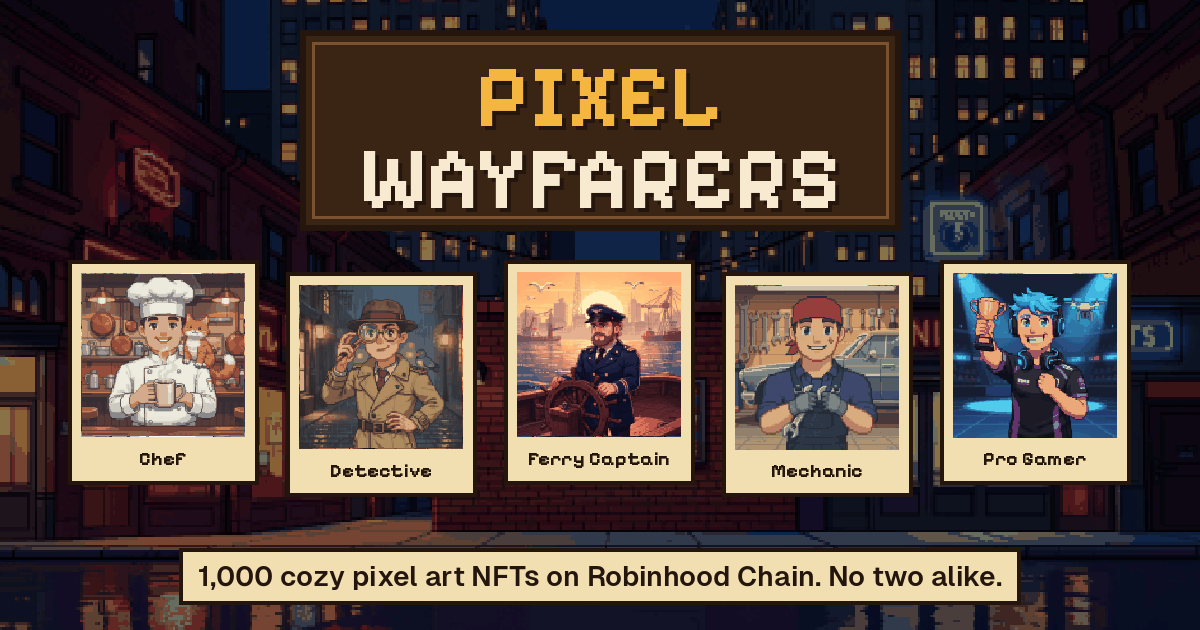
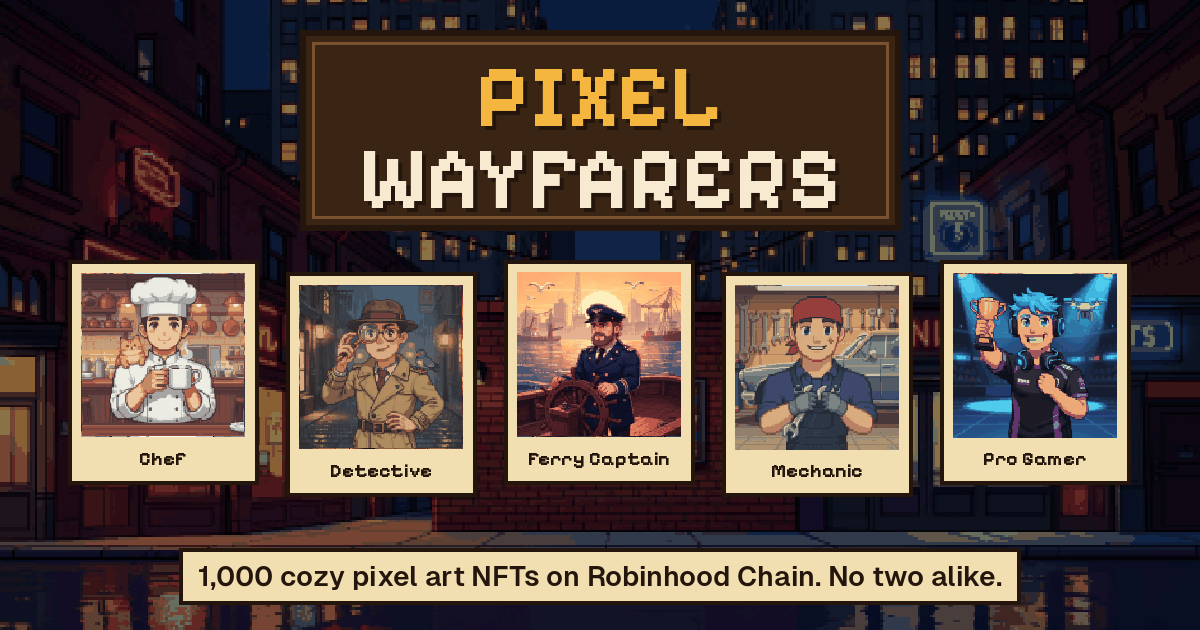
Chef example with a clean mug; local art preview (pipeline/preview.py)

Changed region(s): [[0.0617, 0.4524, 0.2158, 0.6937]]

diff --git a/pipeline/preview.py b/pipeline/preview.py
@@ -1,0 +1,73 @@
+"""Local preview of the site art: every example image, brand image and candidate at full size.
+
+    python pipeline/preview.py        # then open http://localhost:8768
+
+Candidates for a redo live in build/preview/candidates/ (named <target>-<n>.png, e.g. chef-2.png).
+"""
+import html
+from http.server import SimpleHTTPRequestHandler, ThreadingHTTPServer
+from pathlib import Path
+
+ROOT = Path(__file__).resolve().parent.parent
+PUBLIC = ROOT / "worker" / "public"
+CANDIDATES = ROOT / "build" / "preview" / "candidates"
+PORT = 8768
+
+SECTIONS = [
+    ("Candidates (not live yet)", CANDIDATES, "/cand/"),
+    ("Site examples (live)", PUBLIC / "art", "/art/"),
+    ("Brand (live)", PUBLIC / "brand", "/brand/"),
+]
+
+
+def page():
+    parts = []
+    for title, folder, prefix in SECTIONS:
+        files = sorted(p for p in folder.glob("*") if p.suffix in (".png", ".webp", ".jpg"))
+        if not files:
+            continue
+        tiles = "".join(
+            f'<figure><a href="{prefix}{html.escape(p.name)}" target="_blank"><img src="{prefix}{html.escape(p.name)}" loading="lazy"></a>'
+            f"<figcaption>{html.escape(p.name)}</figcaption></figure>"
+            for p in files
+        )
+        parts.append(f"<h2>{html.escape(title)}</h2><div class=grid>{tiles}</div>")
+    return f"""<!doctype html><html><head><meta charset=utf-8><title>Art preview</title><style>
+body{{margin:0;padding:24px;background:#16120e;color:#f2e6cf;font:15px system-ui}}h2{{color:#f4b63f;margin:28px 0 12px}}
+.grid{{display:grid;grid-template-columns:repeat(auto-fill,minmax(512px,1fr));gap:18px}}
+figure{{margin:0;background:#221b14;border:1px solid #3b2e22;border-radius:6px;padding:8px}}
+img{{width:100%;display:block;image-rendering:pixelated;background:#000}}figcaption{{padding:6px 2px 0;color:#b9a88a}}
+</style></head><body><h1>Pixel Wayfarers art preview</h1><p>Click an image to open it alone at full size. Refresh after changes.</p>{''.join(parts)}</body></html>"""
+
+
+class H(SimpleHTTPRequestHandler):
+    def log_message(self, *_):
+        pass
+
+    def do_GET(self):
+        path = self.path.split("?")[0]
+        if path == "/":
+            body = page().encode()
+            self.send_response(200)
+            self.send_header("content-type", "text/html; charset=utf-8")
+            self.send_header("cache-control", "no-store")
+            self.end_headers()
+            self.wfile.write(body)
+            return
+        for _, folder, prefix in SECTIONS:
+            if path.startswith(prefix):
+                f = folder / Path(path[len(prefix):]).name
+                if f.is_file():
+                    self.send_response(200)
+                    self.send_header("content-type", "image/webp" if f.suffix == ".webp" else "image/png")
+                    self.send_header("cache-control", "no-store")
+                    self.end_headers()
+                    self.wfile.write(f.read_bytes())
+                    return
+        self.send_error(404)
+
+
+if __name__ == "__main__":
+    CANDIDATES.mkdir(parents=True, exist_ok=True)
+    print(f"art preview on http://localhost:{PORT}", flush=True)
+    ThreadingHTTPServer(("127.0.0.1", PORT), H).serve_forever()
